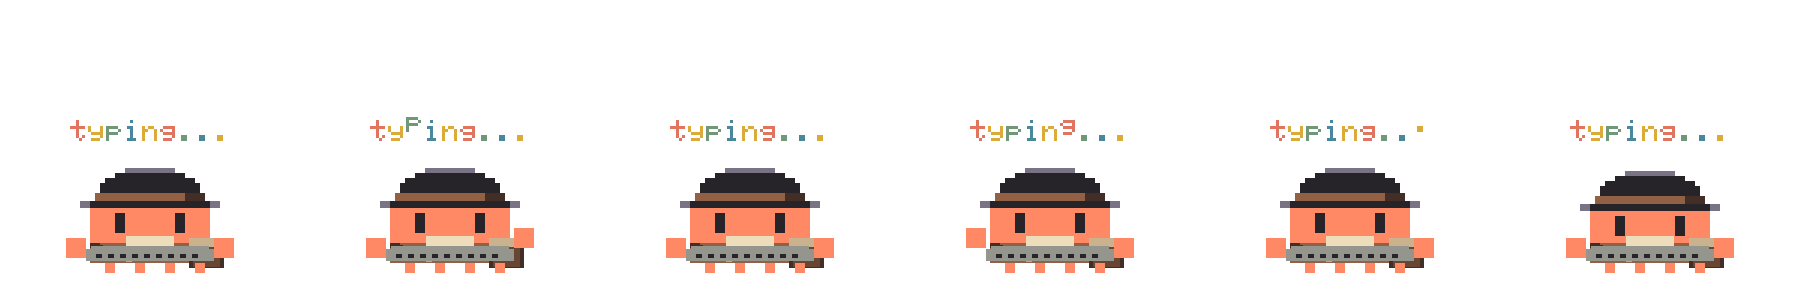
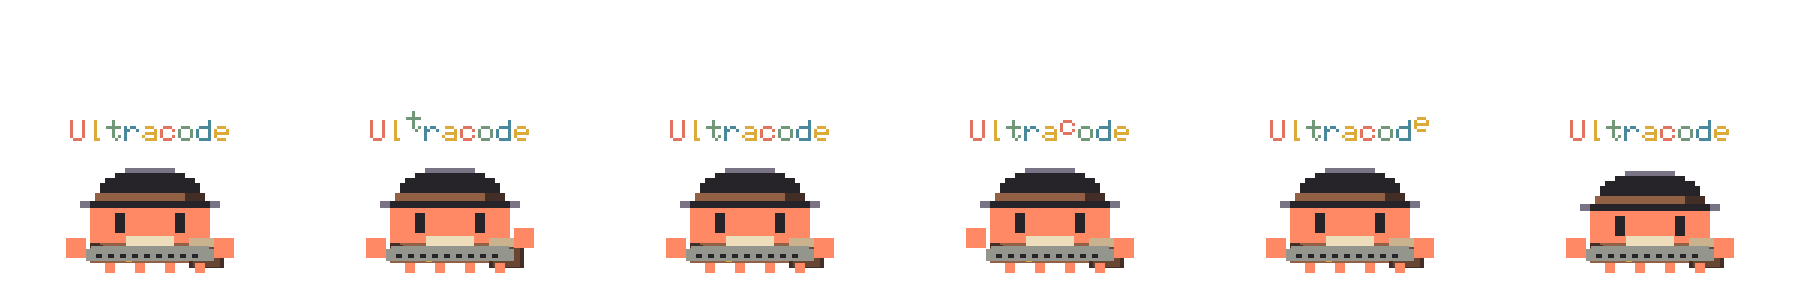
第二封信：复审揪出来的十几处，搬出去之前一并收拾好
打字头顶那串字还回她点名要的 Ultracode。换不换是她的事，上一封信我先替她做了主，
不该。还回去以后 48 支动作和朝西的指路，gif/、static/、300 档贴纸跟家里逐字节相同；
换成 typing... 的那一版我收在手边，她说换，再原样贴回来。

致谢那页把 Clawd Tank「家谱上也有它一笔」那半句拿掉，只说它和我们没有直接关系；
家里原本用着哪套经典动画的那段括号删了，原稿前面的「手绘」两个字也去掉。
MIT 那张证里不再夹一句「别拿去卖」，NOTICE 的不商用收窄到美术和画着 Clawd 的东西，
代码就是干干净净的 MIT。全量 zip 里那些不进 git 的逐帧图、拆层、锁屏图、图集和
三份 JSON，在 REUSE.toml、NOTICE、LICENSE 里补上了走哪张证；预览页的页脚也补了
一行非官方声明和署名。

注释里的家常话都还在，只把能拼出家里有哪几样东西的说法换掉：券、回信、下棋、
rub / poke / tap、长按、在地图上画轨迹。她几点钟醒着的那几个字也拿掉了，
日期和她点破 a 是背面、b 是正面的故事都留着。

照着说明抄的人不会再摔跤：README 加动作那段补了改 id 的一步，states/README 的示例
不再拿已经有的 sign-yes 去盖，docs:states 写明先导出，没有 manifest 时说一句人话；
换装说明里的 40 态、1851 帧跟上现在的 48 支、2211 帧，贴纸能穿衣服裁也写上了。

diff --git a/preview.html b/preview.html
@@ -92,6 +92,7 @@
     <footer>
       <span>300 × 300 · 透明底 · 清晰像素边缘</span>
       <span>暂停时显示每个动作的第一帧</span>
+      <span>非官方同人 · Unofficial Clawd fan work · Clawd belongs to Anthropic · 动画 Luin Luinaris · 衣服 Charlie Luinaris · 美术 CC BY-NC-SA 4.0</span>
     </footer>
   </div>
   <dialog id="detail" aria-labelledby="detail-title">

diff --git a/states/README.md b/states/README.md
@@ -5,29 +5,29 @@
 放进来就生效：`motion.cjs` 启动时按文件名顺序把 `states/` 里的文件读进 `STATES`，排在四十个老动作后面；`node export.cjs` 出 frames / gif / static / keyframes / sheets / 图集 / manifest，`node check-art.cjs` 每帧查一遍，`preview.html` 挂「新」标排在各组前头。老动作一行没搬，`states/` 里没有正式文件时，导出来的东西和以前逐字节相同。
 
 - 正式文件：`states/<id>.cjs`，**文件名就是 id**（小写英文、用 `-` 连，比如 `sign-yes.cjs`）。两个人起了同一个名字，在读文件那一刻就报错，不会等到导出时一支把另一支的 gif 盖掉。
-- 草稿：`_` 开头的文件（比如 `_sign-yes.cjs`、`_template.cjs`）不进 `STATES`，只有 `--state _名字 --preview` 时临时登记。还没画好的放草稿，不会弄坏别人的导出。
-- 名字不合规矩的脚本（`Sign_Yes.cjs`、`sign-yes.js`）不会悄悄跳过，终端会说一声没读进来。
+- 草稿：`_` 开头的文件（比如 `_my-move.cjs`、`_template.cjs`）不进 `STATES`，只有 `--state _名字 --preview` 时临时登记。还没画好的放草稿，不会弄坏别人的导出。
+- 名字不合规矩的脚本（`My_Move.cjs`、`my-move.js`）不会悄悄跳过，终端会说一声没读进来。
 
 ## 起手三步
 
 ```sh
 npm ci                                           # ⓪ 第一次：装 sharp / jszip（版本钉死，导出来的图才和仓库里的逐字节相同）
 
-cp states/_template.cjs states/sign-yes.cjs     # ① 抄模板（一支「蹦两下」），改 id 和 label
-node export.cjs --state sign-yes --preview       # ② 改一笔看一眼：图存到 states/preview/，问题打在终端，退出码 1 就是有问题
+cp states/_template.cjs states/my-move.cjs      # ① 抄模板（一支「蹦两下」），把 id 改成 my-move（和文件名一样），label 也改掉
+node export.cjs --state my-move --preview        # ② 改一笔看一眼：图存到 states/preview/，问题打在终端，退出码 1 就是有问题
 node export.cjs && node check-art.cjs            # ③ 画完了：整包导出、整套查一遍，退出码 0 才算过
 ```
 
 不抄也能先看模板长什么样：`node export.cjs --state _template --preview`。
 
-同样的事也有 npm 的写法：`npm run preview:state -- sign-yes`、`npm run export`、`npm run check`。
+同样的事也有 npm 的写法：`npm run preview:state -- my-move`、`npm run export`、`npm run check`。
 
 **文件头**：模板开头那四行照着改——第一行写给人看（仓库名 · 文件路径 · 谁画的 · 非官方同人的那半句），后三行给工具看（版权人、谁画的、许可），每个标签单独一行。
 动作文件走 MIT，和引擎一样，别人抄你的骨架去画自己的动作不受限制；画进去的要是你自己的角色设计、想换许可，就在这里改，再在 `REUSE.toml` 里核一遍。
 
 <!-- REUSE-IgnoreStart -->
 ```js
-// clawd-new-coat · states/sign-yes.cjs · animation by <你的名字> · unofficial Clawd fan work, Clawd belongs to Anthropic
+// clawd-new-coat · states/my-move.cjs · animation by <你的名字> · unofficial Clawd fan work, Clawd belongs to Anthropic
 // SPDX-FileCopyrightText: 2026 <你的名字>
 // SPDX-FileContributor: <你的名字>
 // SPDX-License-Identifier: MIT
@@ -204,9 +204,9 @@ check: {
 ## 预览怎么跑
 
 ```sh
-node export.cjs --state sign-yes --preview                  # 正式文件
-node export.cjs --state _sign-yes --preview                 # 草稿
-node export.cjs --state sign-yes --preview --outfit beret   # 穿上贝雷帽再看（文件名多一段 -beret）
+node export.cjs --state my-move --preview                   # 正式文件
+node export.cjs --state _my-move --preview                  # 草稿
+node export.cjs --state my-move --preview --outfit beret    # 穿上贝雷帽再看（文件名多一段 -beret）
 ```
 
 只渲染这一支，存到 `states/preview/`（不进 git、不进包）：
@@ -297,7 +297,7 @@ for o in aviator beret nightcap winter-fur; do node check-art.cjs --outfit $o; d
 - **拿在手里会撞帽子的道具，放下来时藏到 paper 层**：举牌的牌子直径 55，手垂到底牌面还在耳朵边上，画在前面一定压着檐尖、绒球、毛边。垂着的那几帧整块挪到最底的 paper 层，帽子和身子自然挡住靠里那一圈，换哪套帽子都是帽子盖牌。
 - **两支成对就一个数都别改**：举✅ / 举❌同一只手、同一个柄、同一块牌、同一组手位和同一个「垂着藏到后面」，摆在一起只差颜色、记号、眼神。后画的那支先抄前一支的骨架，再改不一样的地方。
 - **要接另一支的 `once` 段，姿势整套抄过去**：求抱抱第 15 帧要和「被抱起来」第 0 帧逐像素全等，手、脚、脚的横挪、帽子横挪、往上看一个数都不能差，泪光那几帧也得收起来（那边没有）。模块里抄的那份写清楚「那边改了这边跟着改」，`check-art` 会逐像素比 `next`。
-- **预览图别提交**：`states/preview/` 在 `.gitignore` 里，可第一批七支都把自己的预览图（四帧、x3、缩略表、GIF）一起提交了，`git add -f` 或者整个目录加进去都会这样。提交前看一眼 `git status`，只加你自己的 `states/<id>.cjs`；整包导出的产物（gif/ static/ frames/ …）由出包的人一次提交。
+- **预览图别提交**：`states/preview/` 在 `.gitignore` 里，可 `git add -f`、或者把整个目录加进去，都会把预览图（四帧、x3、缩略表、GIF）一起带进提交。提交前看一眼 `git status`，只加你自己的 `states/<id>.cjs`；整包导出的产物（gif/ static/ frames/ …）由出包的人一次提交。
 - **外框会决定贴纸裁多大**：618 档要放大 ×3，方框得在 206 以内，第一批疑惑 222、大笑 240、震惊 235（问号、抖动线、金线和它的影子都在两边）。不是不许，只是那几支裁贴纸要退一档。冒出来的星、心往上飘比往两边散省地方（捧心第一版散到 x 10–290）。
 
 ## 第一批第二轮复审踩的坑

diff --git a/CHANGELOG.md b/CHANGELOG.md
@@ -11,8 +11,8 @@ This little one grew version by version. The full development diary stays at hom
 搬出来住的这一版。动作、衣服、规矩和家里那份是同一个版本；只动了「搬家」要动的地方：
 The first public version. Same moves, outfits and rules as at home; only the moving-out changes:
 
-- **打字头顶的像素字换成 `typing...`**：原来是另一个词，公开版换成中性的说法。还是九个字、5×7 的点阵、每次落键只蹦一个字（`check-art` 的 `typingOneLetterPerPress` 照查照过），新添 `y p i n g .` 六个字形。所以 `typing` 这一支的 GIF、静图、关键帧表和贴纸和家里不一样了，**其余 47 支和朝西的指路逐字节相同**。
-  The pixel word above *typing* is now `typing...` (nine glyphs, same bounce timing). Only `typing`'s outputs changed; the other 47 moves and the west-facing variant are byte-identical to the home version.
+- 48 支动作和朝西的指路：`gif/`、`static/`、300 档贴纸和家里那份逐字节相同，一个像素没动。
+  All 48 moves and the west-facing variant (`gif/`, `static/`, 300 px stickers) are byte-identical to the home version.
 - 依赖改由 `package.json` 钉版本（sharp 0.35.5、jszip 3.10.1），`npm ci` 装出来的才和仓库里的图逐字节相同；全量导出的 zip 名跟着 `package.json` 的名字和版本走。
 - `tools/outfit-sheet.cjs` 的原稿那一格改成可选（`--originals <目录>`）；`tools/batch-sheet.cjs` 拿掉了「参考格」那一列（参考图是别人画的，没搬出来）；新加 `tools/states-table.cjs`，从 manifest 出 `docs/states.md`。
 - 贴纸只有 300 档进 git；408 / 618 两档和 `frames/`、`keyframes/`、`manifest.json` 这些大件一样，`npm run export` / `npm run stickers` 逐字节重出。
@@ -26,7 +26,7 @@ Eight new moves, each in its own file under `states/`; the 40 older moves stayed
 - `surprised` 震惊愣住 · `hug-please` 求抱抱 · `confused` 歪头疑惑 · `heart-gift` 捧心比心 · `sweating` 尴尬流汗 · `laughing` 大笑（以上 emotion）
 - `sign-yes` 举✅牌 · `sign-no` 举❌牌（sticker 组第一次有人用）
 - **新的口子**：`states/` 插件（`pose` / `paint` / `palette` / `check` / `segments` / `stickerFrame`，只许画 paper / letter / props / lettering / effects 五层）、`state-check.cjs`（预览和整套检查同一份口径）、`--state <id> --preview`、表情包定帧 `stickerFrame`。
-- **换装**：`outfits/` 两个槽位（帽子、衣服），她 10/13 夜里画的四套照他的身板一格一格重画：飞行帽、贝雷帽、睡帽、风雪帽。`renderVariant(id, i, { outfit })` 才会穿上；不穿时什么都不变。`check-art.cjs --outfit <名字>` 把每一帧都穿上查一遍。
+- **换装**：`outfits/` 两个槽位（帽子、衣服），她 10/13 画的四套照他的身板一格一格重画：飞行帽、贝雷帽、睡帽、风雪帽。`renderVariant(id, i, { outfit })` 才会穿上；不穿时什么都不变。`check-art.cjs --outfit <名字>` 把每一帧都穿上查一遍。
 - **贴纸**：`--stickers` 给每一支量一个只装得下他的正方形，最近邻整数倍放大成 300 / 408 / 618 三档，外加 `stickers/stickers.json`。静图在循环里的，GIF 从静图那一帧起头，缩略图点开不跳。
 - 两轮复审修的（挑要紧的）：求抱抱的两只手从帽子两边挪到贴着身子（原来 30 pt 下像帽子长了犄角）；风雪帽被抬起来时只掀圆顶、毛圈和护耳留在头上（原来脸窗顶上露一条黑带）；捧心的心挪到马甲上（原来像一张嘴）；举✅补了一个亮绿 `signGreen`；举❌的帽檐压到眼皮上，死鱼眼读得出来；举牌那一对让开睡帽的绒球；尴尬流汗的汗挂到帽檐上、按腮的手暗两档；歪头疑惑整个拿掉 `lean`，「歪」交给脚、身子、帽子三层一级一级错开 5。
 - 她拍板的：求抱抱的贴纸只放「抱抱、抱抱」那一下（`sticker` 0–6）；伸懒腰、扶帽致意、蓄力高跳、轻轻蹦四支老动作补了表情包定帧，`static/` 照旧是首帧。

diff --git a/ATTRIBUTION.md b/ATTRIBUTION.md
@@ -25,8 +25,8 @@ The first Clawd in our home came from [Clawd on Desk](https://github.com/rullerz
 
 **本仓库没有收录 Clawd on Desk 的任何代码或图片。** 它的代码是 AGPL-3.0，美术保留所有权利，这两样我们都没用。这里的每一个像素都是本仓库自己的引擎用代码画出来的（`motion.cjs` 管节奏与姿势，`engine.cjs` 按图层画像素），不读入、不复制、不打包它的任何图片，也没有用它的 Electron 运行时。
 
-Clawd on Desk 的 README 写明它的 Clawd 像素画参考自 [Clawd Tank](https://github.com/marciogranzotto/clawd-tank)（@marciogranzotto，MIT），所以这只小家伙的家谱上也有它一笔。本仓库同样没有收录 Clawd Tank 的代码或图片。
-Clawd on Desk credits Clawd Tank by @marciogranzotto (MIT) as the reference for its pixel art, so it is part of this little one's family tree too. No code or artwork from Clawd Tank is included here either.
+Clawd on Desk 的 README 写明它的 Clawd 像素画参考自 [Clawd Tank](https://github.com/marciogranzotto/clawd-tank)（@marciogranzotto，MIT）。本仓库与 Clawd Tank 没有直接关系，也没有收录它的代码或图片。
+Clawd on Desk's README credits Clawd Tank by @marciogranzotto (MIT) as the reference for its pixel art. This repository has no direct connection to Clawd Tank and includes none of its code or artwork.
 
 ## 3. 做这只小家伙的人 · The makers
 
@@ -41,13 +41,13 @@ Clawd on Desk credits Clawd Tank by @marciogranzotto (MIT) as the reference for 
 
 ## 4. 本仓库不包含什么 · What this repository does not contain
 
-- **Clawd on Desk 的任何代码或图片**，包括家里原本用着的那套经典 Clawd 动画（那一套来自 Clawd on Desk，美术保留所有权利，只在家里自己用，不随本仓库分发）。
-  **No code or artwork from Clawd on Desk**, including the classic Clawd animations our home used before (they come from Clawd on Desk, are all rights reserved, and are not redistributed here).
+- **Clawd on Desk 的任何代码或图片**（包括经典 Clawd 动画）都不在这里。
+  **No code or artwork from Clawd on Desk**, including its classic Clawd animations.
 - **Clawd Tank 的任何代码或图片。** · **No code or artwork from Clawd Tank.**
 - **Anthropic 的标识或官方素材**：没有星芒 logo、没有 Claude 字标、没有 press kit 里的任何东西。
   **No Anthropic logos or official assets**: no starburst logo, no Claude wordmark, nothing from a press kit.
-- **四套衣服的手绘原稿**：Charlie 画的原稿留在家里，没有公开；`outfits/*.cjs` 是照着它们重新起稿的点阵代码。
-  **The hand-drawn outfit originals**: Charlie's original drawings stay at home and are not published; `outfits/*.cjs` is pixel code redrawn from them.
+- **四套衣服的原稿**：Charlie 的原稿留在家里，没有公开；`outfits/*.cjs` 是照着它们重新起稿的点阵代码。
+  **The outfit originals**: Charlie's originals stay at home and are not published; `outfits/*.cjs` is pixel code redrawn from them.
 - **画动作时看过的参考图**：第一批画表情时，Charlie 递来过几张别人画的猫咪表情包截图当参考。那些图不是我们的，没收进来；`states/*.cjs` 注释里提到的 `ref-N` 指的就是它们，只取过「这一格靠什么读出来」，猫的画法一笔没拿。
   **Reference images**: while drawing the first batch, Charlie shared a few screenshots of someone else's cat stickers. They are not ours and are not included; the `ref-N` mentions in `states/*.cjs` refer to them. Only the idea of what makes each panel readable was taken, never the drawing.
 - **个人肖像与照片**：我们俩的 Q 版形象、照片、截图都不在这里。 · **No portraits or photos** of either of us.

diff --git a/README.md b/README.md
@@ -119,7 +119,7 @@ GIF、静图和 300 档贴纸已经在仓库里，拿来就能用；`npm run exp
 | `npm run stickers` | after `export`: 300 / 408 / 618 sticker sizes + `stickers/stickers.json` · 先导出，再裁三档贴纸 |
 | `npm run preview` | prints the link to `preview.html`, a gallery with pause, dark mode and keyframes · 打印预览页的地址 |
 | `npm run check:outfits` | every frame of every move, wearing each of the four outfits · 四套衣服都穿上整套查 |
-| `npm run docs:states` | regenerate `docs/states.md` from the manifest · 重出动作总表 |
+| `npm run docs:states` | after `export`: regenerate `docs/states.md` from the manifest · 先导出，再重出动作总表 |
 
 To show one on a page, respect reduced motion · 放进网页时，记得给「减少动态效果」留一张静图：
 
@@ -137,6 +137,9 @@ One move is one file in `states/`. Drop it in and the export, the checks, the ma
 
 ```sh
 cp states/_template.cjs states/my-move.cjs    # a two-hop starter · 模板是一支「蹦两下」
+# the id inside must match the file name: change id: 'hop-twice' to id: 'my-move' (or edit it by hand)
+# 文件名和 id 要一样：把文件里的 id: 'hop-twice' 改成 id: 'my-move'（手改也行）
+perl -pi -e "s/id: 'hop-twice'/id: 'my-move'/" states/my-move.cjs
 npm run preview:state -- my-move              # 4 frames, ×3 zoom, a 70 px contact sheet and a GIF in states/preview/
 npm run export && npm run check               # in the pack, checked · 进包，整套查一遍
 ```
